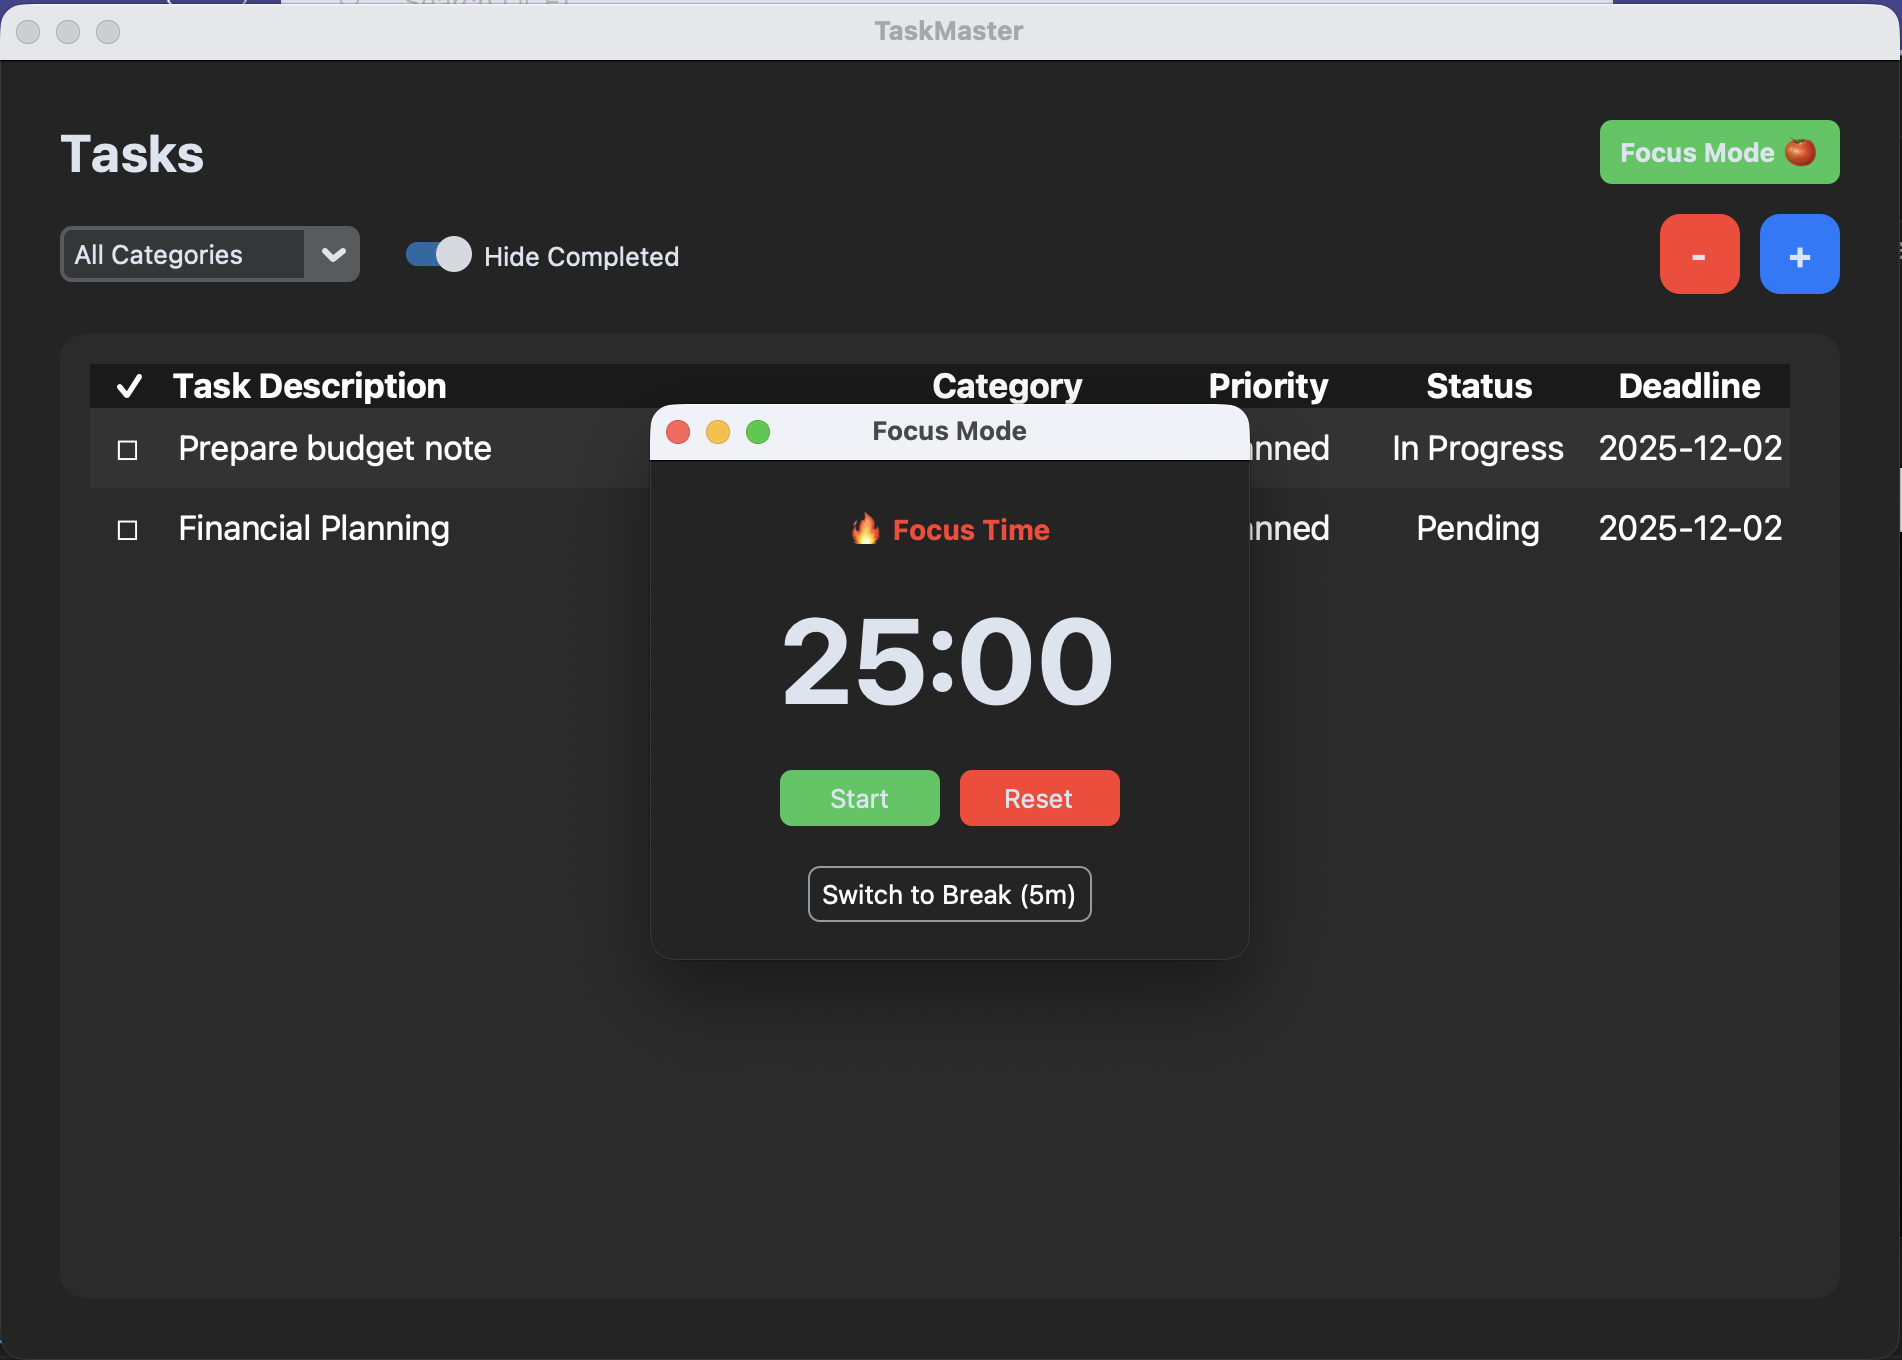
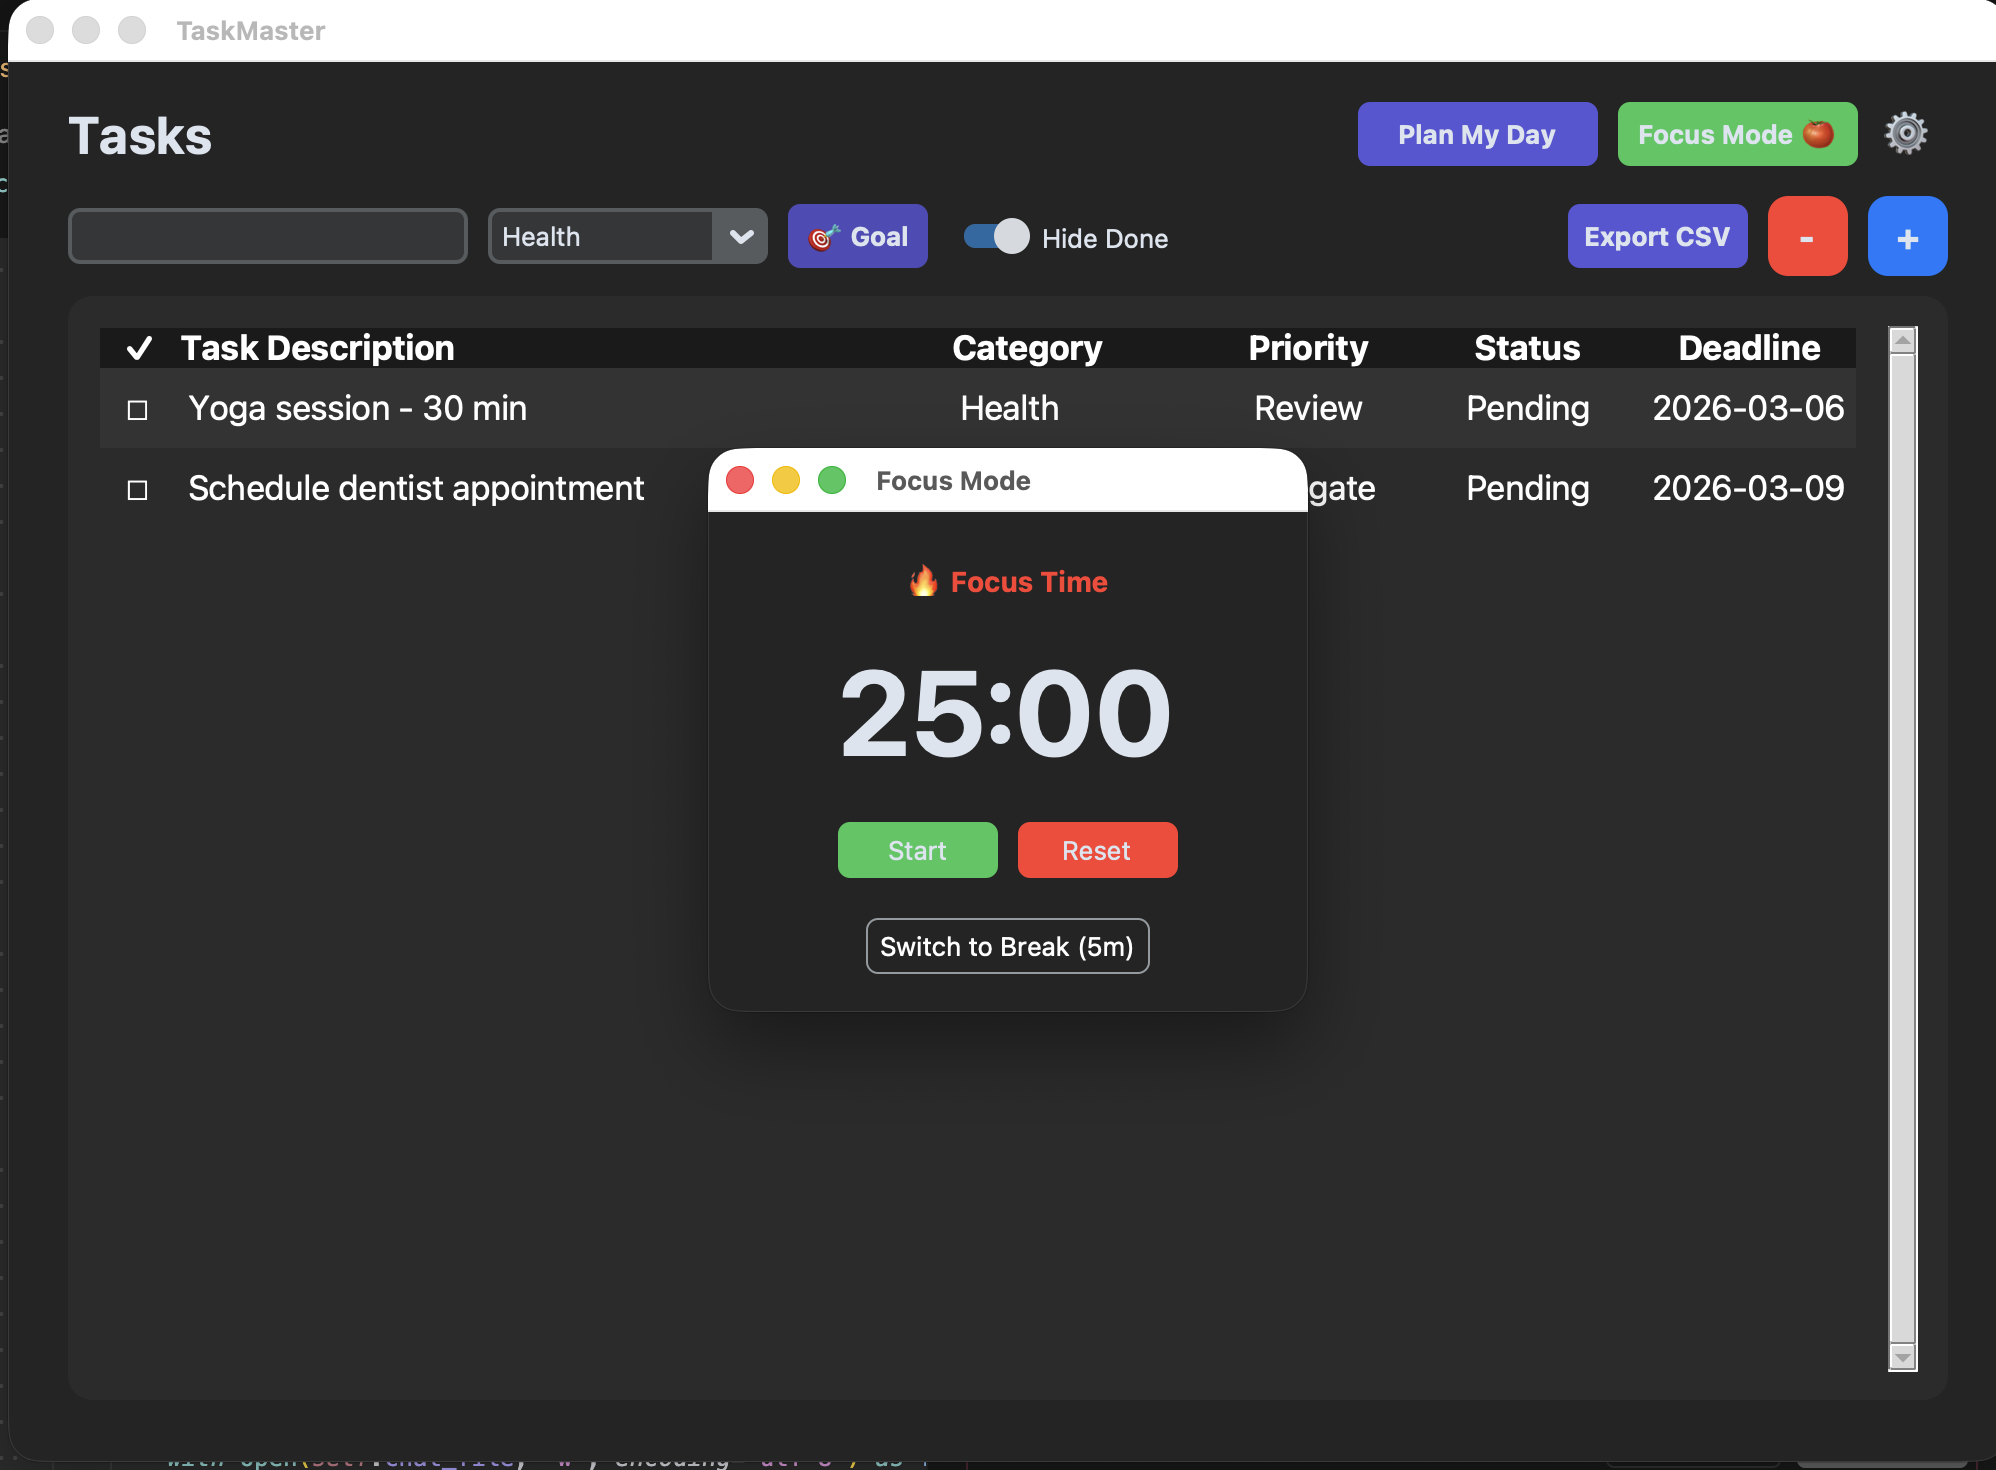
Update screenshots and add new ones for Plan My Day, Goals, and Settings
Made-with: Cursor

diff --git a/README.md b/README.md
@@ -55,6 +55,14 @@
 |:---:|:---:|
 | <img src="assets/screenshot_main.png" width="400" alt="Main View"> | <img src="assets/screenshot_focus.png" width="400" alt="Focus View"> |
 
+| Plan My Day | Category Goals |
+|:---:|:---:|
+| <img src="assets/screenshot_plan_my_day.png" width="400" alt="Plan My Day"> | <img src="assets/screenshot_goal.png" width="400" alt="Category Goals"> |
+
+| Settings |
+|:---:|
+| <img src="assets/screenshot_settings.png" width="400" alt="Settings"> |
+
 ---
 
 ## Installation
